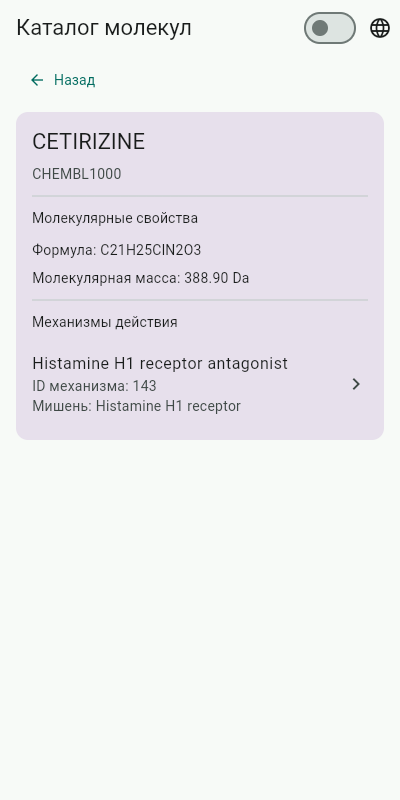
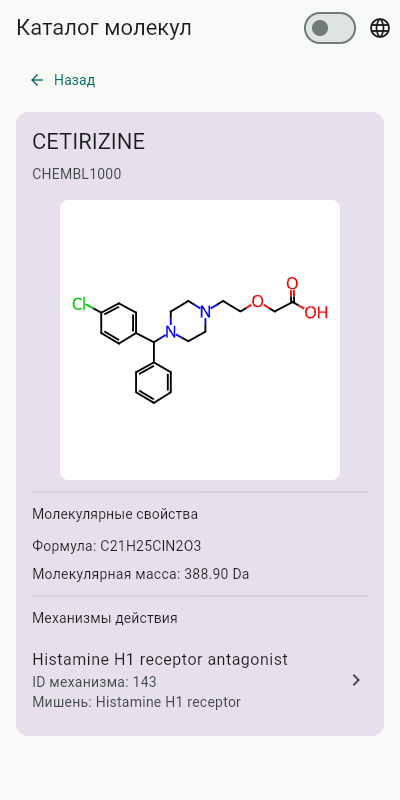
docs(lab3): refresh screenshots with molecule structures

diff --git a/README.md b/README.md
@@ -12,6 +12,7 @@
 - Подгрузка следующих страниц по 20 записей при прокрутке, без повторов.
 - Счётчик загруженных записей и общего количества совпадений.
 - Возврат с сохранением запроса, результатов и позиции списка.
+- SVG-схемы молекул из ChEMBL: миниатюры в списке и крупная схема в детали.
 - Светлая и тёмная темы, русский и английский интерфейс.
 - Настройки хранятся в памяти сессии. Переводятся только подписи интерфейса.
 - Индикаторы загрузки и сообщение об ошибке с кнопкой «Повторить».
@@ -83,7 +84,11 @@ ID выбранной записи в фильтрах `molecule_chembl_id` и
 
 Моков в `lib/` нет. Снимок ответов из ЛР2 сохранён только для справки в
 `docs/reference/chembl_snapshot.json`; приложение его не читает.
-Изображения структур заменены иконками-заглушками.
+Схемы структур загружаются из ресурса `image` ChEMBL по ID молекулы
+и отображаются через `flutter_svg`. Во время загрузки виден индикатор,
+а при отсутствии структуры или ошибке изображения — иконка-заглушка.
+Размер области изображения фиксирован, поэтому загрузка не сдвигает карточки.
+Светлая подложка сохраняет читаемость чёрных связей и цветных атомов в обеих темах.
 
 ## ЛР3: данные из сети
 

diff --git a/docs/lab-3-pr.md b/docs/lab-3-pr.md
@@ -24,11 +24,16 @@
   и не используется приложением. Кэш и сохранение данных на диск не добавлялись.
 - В небольшом по высоте окне блок ошибки прокручивается, сохраняя доступ
   к кнопке «Повторить».
+- SVG-схемы структур загружаются из ChEMBL: миниатюры в списке и увеличенная
+  схема в детали. При отсутствии структуры или ошибке изображения остаётся
+  иконка-заглушка, данные молекулы доступны.
 
 Проверка: `flutter analyze`, `flutter build web`, `flutter build windows`
 и повторная генерация DTO прошли успешно. В Chrome проверены загрузка списка
 и детали, ошибка подключения и восстановление кнопкой «Повторить»,
 включая окно 640×300. Скриншоты сделаны в Web-версии.
+Для схем проверены узкое окно, тёмная тема, запись без структуры и
+недоступный сервер изображений: ошибка картинки не скрывает свойства молекулы.
 
 ## Скриншоты
 
@@ -54,7 +59,6 @@
   не определяется, поэтому его механизмы могут не отображаться.
 - Ошибка связанных данных переводит всю деталь в состояние ошибки;
   «Повторить» заново загружает молекулу и связанные записи.
-- Изображения структур представлены иконками-заглушками.
 
 ## Вопросы
 
